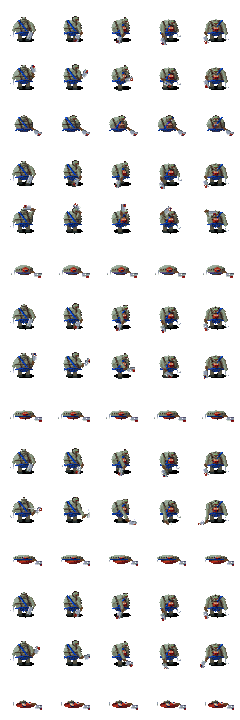
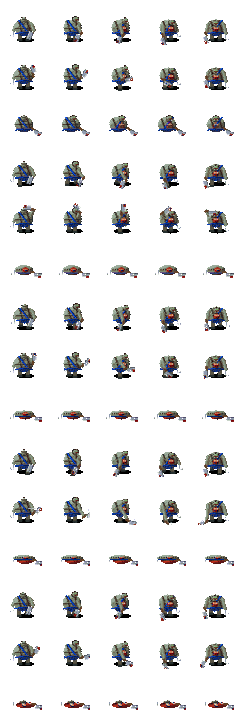
Real walk cycles for the Crypt Fiend and Abomination
The walk frames barely differed (a 2px stride before downscaling, none at
all in the north/south views, and frames 2 and 4 identical), so both
units appeared to glide. Both now use an alternating gait: feet plant and
push back, the passing foot lifts on frames 2 and 4, stride also shows in
north/south views, and the body bobs (the Abomination also waddles side to
side). Only the walk rows change; still, attack and death frames are
pixel-identical.

Also make the sprite build scripts runnable from any checkout: resolve
BASE_DIR from the script location and fall back to the existing sheet's
palette when no extracted War1gus data is present.

Claude-Session: https://claude.ai/code/session_01So1hoU342u8PhuwWzTD6iw

diff --git a/scripts/build_crypt_fiend.py b/scripts/build_crypt_fiend.py
@@ -54,13 +54,21 @@ def draw_frame(cv, col, anim, step):
         draw_death(cv, col, step)
         return
 
-    cx, cy = 24, 26
+    ground_cy = 26
     rear = 0      # how far the front end lifts (attack)
     stride = 0
+    lift_group = None
+    bob = 0
     if anim == "move":
-        stride = (-2, 0, 2, 0)[step]
+        # Alternating gait: the two leg groups trade places, and the group
+        # that swings forward is lifted on the passing frames (1 and 3).
+        stride = (4, 0, -4, 0)[step]
+        lift_group = (None, 0, None, 1)[step]
+        bob = (0, -1, 0, -1)[step]
     elif anim == "attack":
         rear = (2, 5, 4, 1)[step]
+
+    cx, cy = 24, ground_cy + bob
 
     # body axis (screen space; north/south views are foreshortened)
     ax, ay = fx, fy * 0.75
@@ -70,20 +78,25 @@ def draw_frame(cv, col, anim, step):
     thorax = (cx + ax * 1, cy + ay * 1 - rear * 0.5)
     head = (cx + ax * 6, cy + ay * 6 - 3 - rear)
 
-    cv.ellipse(cx, cy + 6, 13, 4, [SHADOW])
+    cv.ellipse(cx, ground_cy + 6, 13, 4, [SHADOW])
 
     # legs: 4 per side, attached along the thorax
     legs = []
     for s in (-1, 1):
         for i, along in enumerate((2.5, 0.8, -0.8, -2.5)):
-            phase = stride if (i + (s > 0)) % 2 else -stride
+            group = (i + (s > 0)) % 2
+            phase = stride if group else -stride
+            lift = 3 if group == lift_group else 0
             bx = thorax[0] + ax * along + side[0] * s * 2
             by = thorax[1] + ay * along + side[1] * s * 1.5
             spread = 1.0 + 0.35 * abs(along)
             kx = bx + side[0] * s * 6.5 * spread + ax * along * 1.5 + ax * phase * 0.5
-            ky = by + side[1] * s * 5 * spread + ay * along * 1.5 - 5
+            ky = (by + side[1] * s * 5 * spread + ay * along * 1.5 - 5
+                  + ay * phase * 0.5 - lift * 0.6)
             tx = bx + side[0] * s * 9.5 * spread + ax * along * 3 + ax * phase
-            ty = by + side[1] * s * 8 * spread + ay * along * 3 + 3
+            # planted feet stay on the ground while the body bobs
+            ty = (by + side[1] * s * 8 * spread + ay * along * 3 + 3
+                  + ay * phase - lift - bob)
             if anim == "attack" and i == 0:  # front legs lift up when rearing
                 ky -= rear * 1.5
                 ty -= rear * 2.5
@@ -185,7 +198,10 @@ def shrink_and_map_team(frame_img):
 
 
 def main():
-    pal = Image.open(os.path.join(GRAPHICS_DIR, "orc", "units", "grunt.png")).getpalette()
+    pal_src = os.path.join(GRAPHICS_DIR, "orc", "units", "grunt.png")
+    if not os.path.exists(pal_src):  # no extracted War1gus data: reuse our own sheet's palette
+        pal_src = os.path.join(GRAPHICS_DIR, "forsaken", "units", "crypt_fiend.png")
+    pal = Image.open(pal_src).getpalette()
     dst = sys.argv[1] if len(sys.argv) > 1 else os.path.join(GRAPHICS_DIR, "forsaken", "units", "crypt_fiend.png")
     sheet = Image.new("RGBA", (5 * FRAME, 14 * FRAME), (0, 0, 0, 0))
     move = {3: 0, 6: 1, 9: 2, 12: 3}

diff --git a/scripts/build_abomination.py b/scripts/build_abomination.py
@@ -198,13 +198,22 @@ def draw_frame(cv, col, anim, step):
 
     bob = 0
     stride = 0
+    sway = 0
+    lift_leg = None
     if anim == "move":
-        stride = (-2, 0, 2, 0)[step]
-        bob = (0, -1, 0, -1)[step]
+        # Heavy waddle: feet trade places, the passing foot is lifted on
+        # frames 1 and 3, the body rises over it and rocks toward the
+        # planted side.
+        stride = (4, 0, -4, 0)[step]
+        bob = (1, -1, 1, -1)[step]
+        sway = (0, 1, 0, -1)[step]
+        lift_leg = (None, 0, None, 1)[step]
     elif anim == "attack":
         bob = (0, -1, 0, 1, 0)[step]
 
-    cx, cy = 24 + fx * 1, 25 + bob
+    ground_cx, ground_cy = 24 + fx * 1, 25
+    cx = ground_cx + sway * (1 if col in (0, 4) else 0.75)  # whole pixels: halves leave gaps
+    cy = ground_cy + bob
     rx, ry = 12, 11
 
     # side axis in screen space (the unit's left/right)
@@ -221,14 +230,19 @@ def draw_frame(cv, col, anim, step):
         return cx + side[0] * 10, cy - 5 + side[1] * 4
 
     # dark ground shadow (WC1 units have no outline, just a shadow blob)
-    cv.ellipse(cx + 2, cy + 16, 11, 3, SHADOW, SHADOW, SHADOW)
+    # (while walking the shadow stays put under the bobbing body)
+    shadow_y = (ground_cy if anim == "move" else cy) + 16
+    cv.ellipse(ground_cx + 2, shadow_y, 11, 3, SHADOW, SHADOW, SHADOW)
 
     # legs
     for k, side in enumerate((far, near)):
         lx = cx + side[0] * 5 - fx * 1
         ly = cy + 8 + side[1] * 2
         off = stride if k else -stride
-        foot = (lx + fx * off, ly + 7 + fy * off * 0.5)
+        lift = 3 if k == lift_leg else 0
+        # planted feet stay on the ground while the body bobs
+        plant = bob if anim == "move" else 0
+        foot = (lx + fx * off, ly + 7 + fy * off * 0.8 - lift - plant)
         cv.line(lx, ly, foot[0], foot[1], FLESH_DK, 5, FLESH_SH)
         cv.line(foot[0] - 2, foot[1] + 1, foot[0] + 2 + fx, foot[1] + 1, FLESH_SH, 2)
 
@@ -361,7 +375,10 @@ def shrink_and_map_team(rgba):
 
 
 def main():
-    pal = Image.open(os.path.join(GRAPHICS_DIR, "orc", "units", "grunt.png")).getpalette()
+    pal_src = os.path.join(GRAPHICS_DIR, "orc", "units", "grunt.png")
+    if not os.path.exists(pal_src):  # no extracted War1gus data: reuse our own sheet's palette
+        pal_src = os.path.join(GRAPHICS_DIR, "forsaken", "units", "abomination.png")
+    pal = Image.open(pal_src).getpalette()
     dst = os.path.join(GRAPHICS_DIR, "forsaken", "units", "abomination.png")
     rgba = Image.new("RGBA", (5 * FW, 15 * FH), (0, 0, 0, 0))
     px = rgba.load()

diff --git a/scripts/build_forsaken_art.py b/scripts/build_forsaken_art.py
@@ -24,7 +24,7 @@ in Warcraft I's 8-bit paletted pixel-art style:
 import os
 from PIL import Image
 
-BASE_DIR = "/home/smiles/forsaken-mod"
+BASE_DIR = os.path.dirname(os.path.dirname(os.path.abspath(__file__)))
 GRAPHICS_DIR = os.path.join(BASE_DIR, "graphics")
 CONTRIB_DIR = os.path.join(BASE_DIR, "contrib", "graphics")
 
